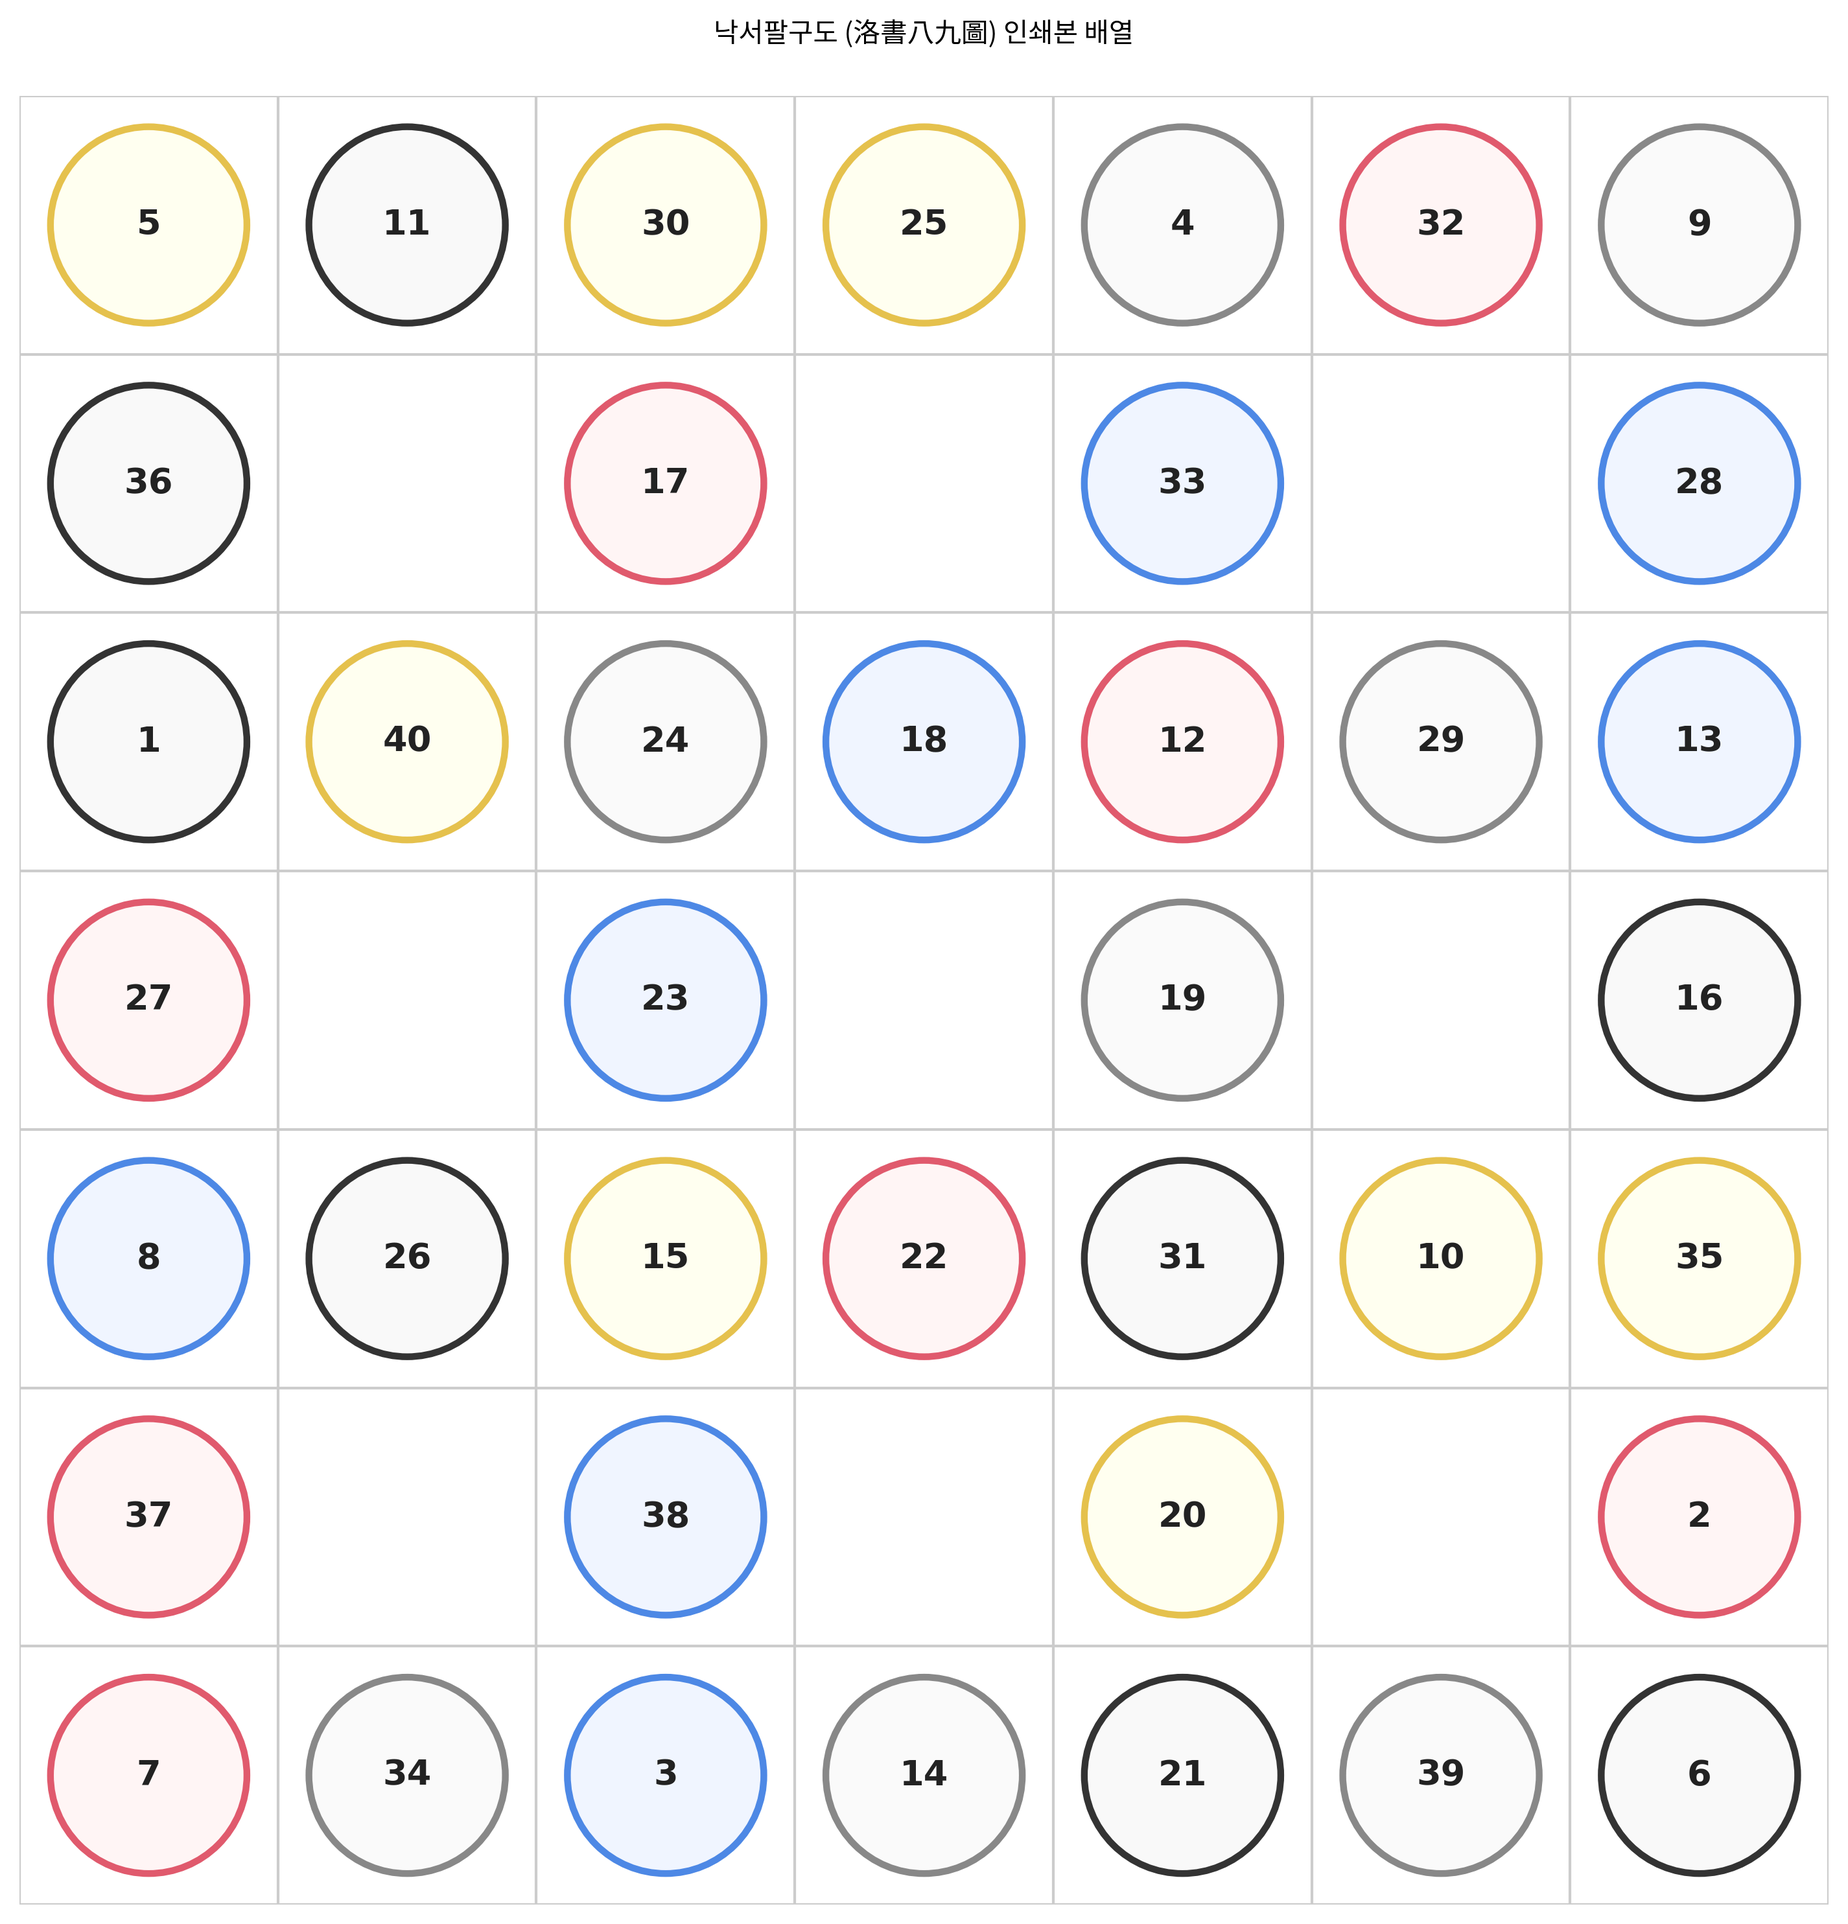
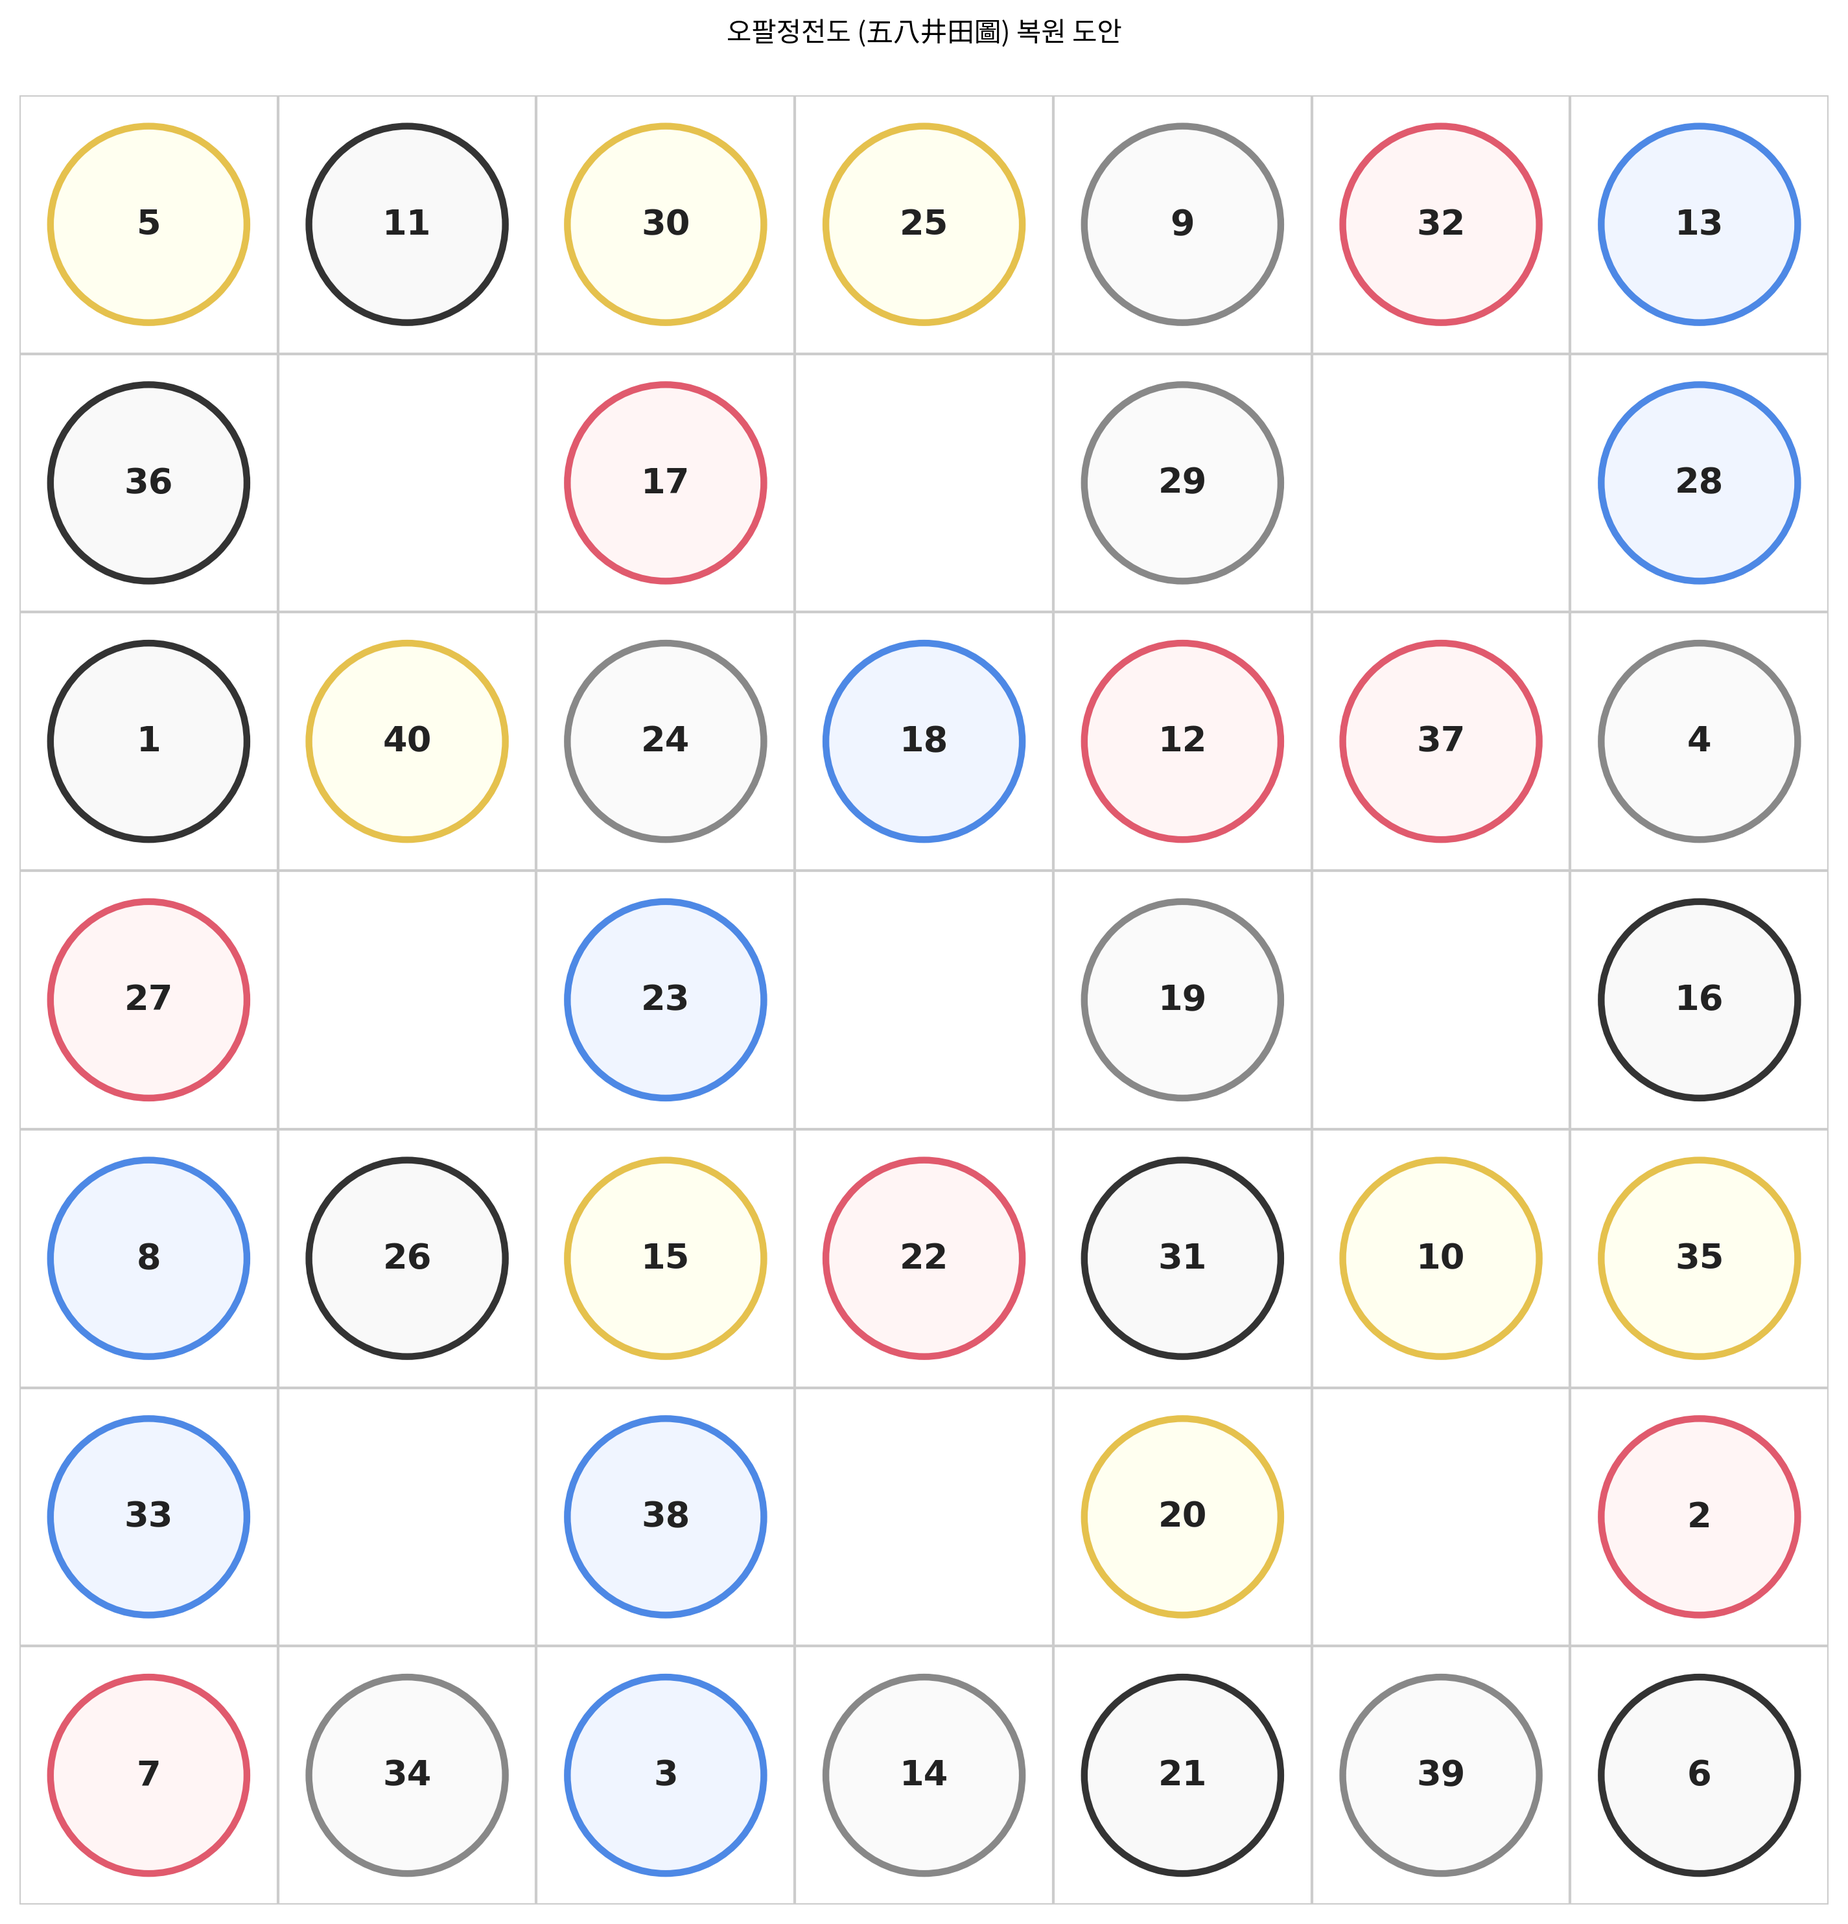
Remove collation notices; restore the Nakseo Palgudo solver emendation (independent of the Jung-Heo emendation) and the earlier Chilodo and audit texts; keep 相涵, the printed Gugudo layout and palace-6 order

diff --git a/english/04-unification/wood-product-audit/wood_product_audit.py b/english/04-unification/wood-product-audit/wood_product_audit.py
@@ -89,10 +89,10 @@ GRAPHS: list[dict] = [
     {
         "name": "Nakseo Palgudo 洛書八九圖", "N": 40, "C": 41,
         "cells": {
-            "(1,1)": [5, 11, 30, 36, 17, 1, 40, 24], "(1,2)": [30, 25, 4, 17, 33, 24, 18, 12],
-            "(1,3)": [4, 32, 9, 33, 28, 12, 29, 13], "(2,1)": [1, 40, 24, 27, 23, 8, 26, 15],
-            "(2,2)": [24, 18, 12, 23, 19, 15, 22, 31], "(2,3)": [12, 29, 13, 19, 16, 31, 10, 35],
-            "(3,1)": [8, 26, 15, 37, 38, 7, 34, 3], "(3,2)": [15, 22, 31, 38, 20, 3, 14, 21],
+            "(1,1)": [5, 11, 30, 36, 17, 1, 40, 24], "(1,2)": [30, 25, 9, 17, 29, 24, 18, 12],
+            "(1,3)": [9, 32, 13, 29, 28, 12, 37, 4], "(2,1)": [1, 40, 24, 27, 23, 8, 26, 15],
+            "(2,2)": [24, 18, 12, 23, 19, 15, 22, 31], "(2,3)": [12, 37, 4, 19, 16, 31, 10, 35],
+            "(3,1)": [8, 26, 15, 33, 38, 7, 34, 3], "(3,2)": [15, 22, 31, 38, 20, 3, 14, 21],
             "(3,3)": [31, 10, 35, 20, 2, 21, 39, 6],
         },
     },
@@ -152,9 +152,14 @@ GRAPHS: list[dict] = [
             "right": [1, 12, 18, 19, 6, 7, 13, 24], "bottom": [7, 6, 17, 20, 2, 11, 16, 21],
         },
     },
-    # 河圖七五圖 removed 2026-11-12: the print annotation is 七子各得一百二十六數
-    # (5 x 126 = 630 = 1+...+35), and the former 'article table' (sum 120) reuses
-    # 1, 6, 24, 34. The printed counters are too worn to transcribe.
+    {
+        "name": "Hado Chilodo 河圖七五圖 (article table)", "N": 35, "C": 36,
+        "cells": {
+            "top": [2, 29, 1, 24, 34, 11, 19], "left": [3, 6, 33, 23, 13, 34, 8],
+            "centre": [5, 22, 7, 20, 30, 26, 10], "right": [4, 15, 28, 9, 18, 32, 14],
+            "bottom": [1, 35, 16, 21, 24, 6, 17],
+        },
+    },
     {
         "name": "Hado Palodo 河圖八五圖", "N": 40, "C": 41,
         "cells": {

diff --git a/korean/04-unification/목-곱셈-검증/wood_product_audit.py b/korean/04-unification/목-곱셈-검증/wood_product_audit.py
@@ -90,10 +90,10 @@ GRAPHS: list[dict] = [
     {
         "name": "낙서팔구도(洛書八九圖)", "N": 40, "C": 41,
         "cells": {
-            "(1,1)": [5, 11, 30, 36, 17, 1, 40, 24], "(1,2)": [30, 25, 4, 17, 33, 24, 18, 12],
-            "(1,3)": [4, 32, 9, 33, 28, 12, 29, 13], "(2,1)": [1, 40, 24, 27, 23, 8, 26, 15],
-            "(2,2)": [24, 18, 12, 23, 19, 15, 22, 31], "(2,3)": [12, 29, 13, 19, 16, 31, 10, 35],
-            "(3,1)": [8, 26, 15, 37, 38, 7, 34, 3], "(3,2)": [15, 22, 31, 38, 20, 3, 14, 21],
+            "(1,1)": [5, 11, 30, 36, 17, 1, 40, 24], "(1,2)": [30, 25, 9, 17, 29, 24, 18, 12],
+            "(1,3)": [9, 32, 13, 29, 28, 12, 37, 4], "(2,1)": [1, 40, 24, 27, 23, 8, 26, 15],
+            "(2,2)": [24, 18, 12, 23, 19, 15, 22, 31], "(2,3)": [12, 37, 4, 19, 16, 31, 10, 35],
+            "(3,1)": [8, 26, 15, 33, 38, 7, 34, 3], "(3,2)": [15, 22, 31, 38, 20, 3, 14, 21],
             "(3,3)": [31, 10, 35, 20, 2, 21, 39, 6],
         },
     },
@@ -153,9 +153,14 @@ GRAPHS: list[dict] = [
             "우": [1, 12, 18, 19, 6, 7, 13, 24], "하": [7, 6, 17, 20, 2, 11, 16, 21],
         },
     },
-    # 河圖七五圖 removed 2026-11-12: the print annotation is 七子各得一百二十六數
-    # (5 x 126 = 630 = 1+...+35), and the former 'article table' (sum 120) reuses
-    # 1, 6, 24, 34. The printed counters are too worn to transcribe.
+    {
+        "name": "하도칠오도(河圖七五圖) 문서 표", "N": 35, "C": 36,
+        "cells": {
+            "상": [2, 29, 1, 24, 34, 11, 19], "좌": [3, 6, 33, 23, 13, 34, 8],
+            "중": [5, 22, 7, 20, 30, 26, 10], "우": [4, 15, 28, 9, 18, 32, 14],
+            "하": [1, 35, 16, 21, 24, 6, 17],
+        },
+    },
     {
         "name": "하도팔오도(河圖八五圖)", "N": 40, "C": 41,
         "cells": {

diff --git a/english/01-saodo-family/nakseo-palgudo/visualize.py b/english/01-saodo-family/nakseo-palgudo/visualize.py
@@ -46,24 +46,23 @@ if CJK_FONT is not None:
     plt.rcParams["axes.unicode_minus"] = False
 
 # 1. Define the arrangement on a 7x7 grid (row, col indices are 0..6).
-#    Empty cells are represented by None. The values are the print as it
-#    stands (NLK digitised copy, vol. 2 p.146; collated 2026-11-12). Five of
-#    the nine wells sum to 164; the others give 160, 163, 165, 168. The 6-cell
-#    MILP correction contradicts the legible print and is kept only as a
-#    hypothesis in reconstruct_milp.py.
+#    Empty cells are represented by None. The arrangement below is the one
+#    reconstructed by reconstruct_milp.py so that each of the nine wells
+#    (井, the empty center of each 3x3 block) is surrounded by 8 cells
+#    summing to 164. Only 6 cells were corrected from the observed layout.
 grid_data = [
     # Row 1 (index 0)
-    [5, 11, 30, 25, 4, 32, 9],
+    [5, 11, 30, 25, 9, 32, 13],
     # Row 2 (index 1)
-    [36, None, 17, None, 33, None, 28],
+    [36, None, 17, None, 29, None, 28],
     # Row 3 (index 2)
-    [1, 40, 24, 18, 12, 29, 13],
+    [1, 40, 24, 18, 12, 37, 4],
     # Row 4 (index 3)
     [27, None, 23, None, 19, None, 16],
     # Row 5 (index 4)
     [8, 26, 15, 22, 31, 10, 35],
     # Row 6 (index 5)
-    [37, None, 38, None, 20, None, 2],
+    [33, None, 38, None, 20, None, 2],
     # Row 7 (index 6)
     [7, 34, 3, 14, 21, 39, 6]
 ]
@@ -112,7 +111,7 @@ def draw_ojungto():
                         ha='center', va='center', color='#222222', zorder=4)
 
     # Add title
-    plt.title("Nakseo Palgudo (洛書八九圖) as printed",
+    plt.title("O-pal-jeong-jeon-do (五八井田圖) Restoration Design",
               fontsize=16, fontweight='bold', pad=20,
               fontproperties=CJK_BOLD_FONT)
 

diff --git a/korean/01-saodo-family/낙서팔구도/visualize.py b/korean/01-saodo-family/낙서팔구도/visualize.py
@@ -29,22 +29,21 @@ def get_korean_font():
 KOREAN_FONT = get_korean_font()
 
 # 1. 7x7 격자 위 배열 정의 (행, 열 좌표는 0~6 index)
-# 인쇄본(국립중앙도서관 디지털본 2권 p.146) 값 그대로다(2026-11-12 대조).
-# 우물 합은 164가 다섯, 160·163·165·168이 하나씩이다. MILP 6칸 교정값은
-# 선명한 인쇄와 어긋나므로 reconstruct_milp.py에 가설로만 남긴다.
+# 9개 우물(井, 3x3 블록의 중심 공백) 각각의 주변 8칸 합이 164가 되도록
+# reconstruct_milp.py가 복원한 배열이다. 기존 관측값에서 6칸만 교정되었다.
 grid_data = [
     # 1행 (index 0)
-    [5, 11, 30, 25, 4, 32, 9],
+    [5, 11, 30, 25, 9, 32, 13],
     # 2행 (index 1)
-    [36, None, 17, None, 33, None, 28],
+    [36, None, 17, None, 29, None, 28],
     # 3행 (index 2)
-    [1, 40, 24, 18, 12, 29, 13],
+    [1, 40, 24, 18, 12, 37, 4],
     # 4행 (index 3)
     [27, None, 23, None, 19, None, 16],
     # 5행 (index 4)
     [8, 26, 15, 22, 31, 10, 35],
     # 6행 (index 5)
-    [37, None, 38, None, 20, None, 2],
+    [33, None, 38, None, 20, None, 2],
     # 7행 (index 6)
     [7, 34, 3, 14, 21, 39, 6]
 ]
@@ -100,7 +99,7 @@ def draw_ojungto():
     }
     if KOREAN_FONT is not None:
         title_kwargs["fontproperties"] = KOREAN_FONT
-    plt.title("낙서팔구도 (洛書八九圖) 인쇄본 배열", **title_kwargs)
+    plt.title("오팔정전도 (五八井田圖) 복원 도안", **title_kwargs)
     
     ax.set_xlim(0, 7)
     ax.set_ylim(0, 7)

diff --git a/english/01-saodo-family/nakseo-palgudo/reconstruct_milp.py b/english/01-saodo-family/nakseo-palgudo/reconstruct_milp.py
@@ -3,12 +3,6 @@
 """
 MILP reconstruction for Nakseo Palgudo (오팔정전도 五八井田圖).
 
-HYPOTHESIS ONLY (collated 2026-11-12): the print (NLK digitised copy, vol. 2
-p.146) is clean and every counter is legible; it equals the observed layout,
-with well sums 164 x5, 160, 163, 165, 168. The 6 cells this script changes
-are not misprints. The output shows the nearest layout in which all nine
-wells sum to 164, not the original diagram.
-
 Hard constraints:
 - the 7x7 well-field keeps its 9 empty centers fixed
 - each of the nine 3x3 wells (center hole + 8 surrounding cells) sums to 164
@@ -33,7 +27,7 @@ TARGET_SUM = 164
 N = 7
 CENTERS = [(r, c) for r in (1, 3, 5) for c in (1, 3, 5)]
 
-# Observed placement = the print, every cell verified against the scan (2026-11-12).
+# Observed placement copied from visualize.py (guessed cells included).
 OBSERVED = [
     [5, 11, 30, 25, 4, 32, 9],
     [36, None, 17, None, 33, None, 28],

diff --git a/korean/01-saodo-family/낙서팔구도/reconstruct_milp.py b/korean/01-saodo-family/낙서팔구도/reconstruct_milp.py
@@ -3,12 +3,6 @@
 """
 MILP reconstruction for Nakseo Palgudo (오팔정전도 五八井田圖).
 
-HYPOTHESIS ONLY (collated 2026-11-12): the print (NLK digitised copy, vol. 2
-p.146) is clean and every counter is legible; it equals the observed layout,
-with well sums 164 x5, 160, 163, 165, 168. The 6 cells this script changes
-are not misprints. The output shows the nearest layout in which all nine
-wells sum to 164, not the original diagram.
-
 Hard constraints:
 - the 7x7 well-field keeps its 9 empty centers fixed
 - each of the nine 3x3 wells (center hole + 8 surrounding cells) sums to 164
@@ -33,7 +27,7 @@ TARGET_SUM = 164
 N = 7
 CENTERS = [(r, c) for r in (1, 3, 5) for c in (1, 3, 5)]
 
-# Observed placement = the print, every cell verified against the scan (2026-11-12).
+# Observed placement copied from visualize.py (guessed cells included).
 OBSERVED = [
     [5, 11, 30, 25, 4, 32, 9],
     [36, None, 17, None, 33, None, 28],

diff --git a/korean/01-saodo-family/낙서구구도/analyze_nakseo_gugudo.py b/korean/01-saodo-family/낙서구구도/analyze_nakseo_gugudo.py
@@ -14,8 +14,7 @@ class Cluster:
 
 
 # Ring values are ordered clockwise from the upper-left circle.
-# Palace layout and palace-6 ring order collated with the print
-# (NLK digitised copy, vol. 2 p.147) on 2026-11-12: 四九二/三五七/八一六.
+# Palace layout as printed: 四九二/三五七/八一六.
 # Reconstructed from the source diagram reading by reconstruct_milp.py
 # (4 corrections: 四+47, 三 71->19, 七 3->31, 六 38->30).
 CLUSTERS: tuple[tuple[Cluster, ...], ...] = (

diff --git a/english/01-saodo-family/nakseo-gugudo/analyze_nakseo_gugudo.py b/english/01-saodo-family/nakseo-gugudo/analyze_nakseo_gugudo.py
@@ -14,8 +14,7 @@ class Cluster:
 
 
 # Ring values are ordered clockwise from the upper-left circle.
-# Palace layout and palace-6 ring order collated with the print
-# (NLK digitised copy, vol. 2 p.147) on 2026-11-12: 四九二/三五七/八一六.
+# Palace layout as printed: 四九二/三五七/八一六.
 # Transcribed from the source diagram and corrected back to the original
 # values by reconstruct_milp.py (4 transcription errors: 四+47,
 # 三 71->19, 七 3->31, 六 38->30).

diff --git a/korean/02-gakdeuk-series/칠자각득-일곱이-따로따로/visualize.py b/korean/02-gakdeuk-series/칠자각득-일곱이-따로따로/visualize.py
@@ -1,6 +1,4 @@
 #!/usr/bin/env python3
-# 판독 정정 (2026-11-12): 인쇄본 주기는 七子各得一百二十六數(126)다. 여기의 합 120 표는
-# 1, 6, 24, 34를 두 번씩 쓰는 잘못된 표이며 원도가 아니다. 분석 기록으로만 남긴다.
 # -*- coding: utf-8 -*-
 """
 Modern visualization of the Chiljagakdeuk (Seven-Each-Gets) puzzle.

diff --git a/korean/04-unification/사오도와-칠자각득의-일반화/compare_structures.py b/korean/04-unification/사오도와-칠자각득의-일반화/compare_structures.py
@@ -1,6 +1,4 @@
 #!/usr/bin/env python3
-# 판독 정정 (2026-11-12): 인쇄본 주기는 七子各得一百二十六數(126)다. 여기의 합 120 표는
-# 1, 6, 24, 34를 두 번씩 쓰는 잘못된 표이며 원도가 아니다. 분석 기록으로만 남긴다.
 """
 Compare four-five-way and seven-each-gets within the general framework Π(p, q, T).
 

diff --git a/korean/02-gakdeuk-series/칠자각득-일곱이-따로따로/analyze_rotations.py b/korean/02-gakdeuk-series/칠자각득-일곱이-따로따로/analyze_rotations.py
@@ -1,6 +1,4 @@
 #!/usr/bin/env python3
-# 판독 정정 (2026-11-12): 인쇄본 주기는 七子各得一百二十六數(126)다. 여기의 합 120 표는
-# 1, 6, 24, 34를 두 번씩 쓰는 잘못된 표이며 원도가 아니다. 분석 기록으로만 남긴다.
 # -*- coding: utf-8 -*-
 """
 칠자각득(일곱이 따로따로) 군별 회전 분석.

diff --git a/korean/04-unification/각득 원리를 따르는 퍼즐들의 공유 특성 및 일반화/generalize_gakdeuk.py b/korean/04-unification/각득 원리를 따르는 퍼즐들의 공유 특성 및 일반화/generalize_gakdeuk.py
@@ -1,6 +1,4 @@
 #!/usr/bin/env python3
-# 판독 정정 (2026-11-12): 인쇄본 주기는 七子各得一百二十六數(126)다. 여기의 합 120 표는
-# 1, 6, 24, 34를 두 번씩 쓰는 잘못된 표이며 원도가 아니다. 분석 기록으로만 남긴다.
 # -*- coding: utf-8 -*-
 """
 각득(各得) 원리 일반화 분석기
